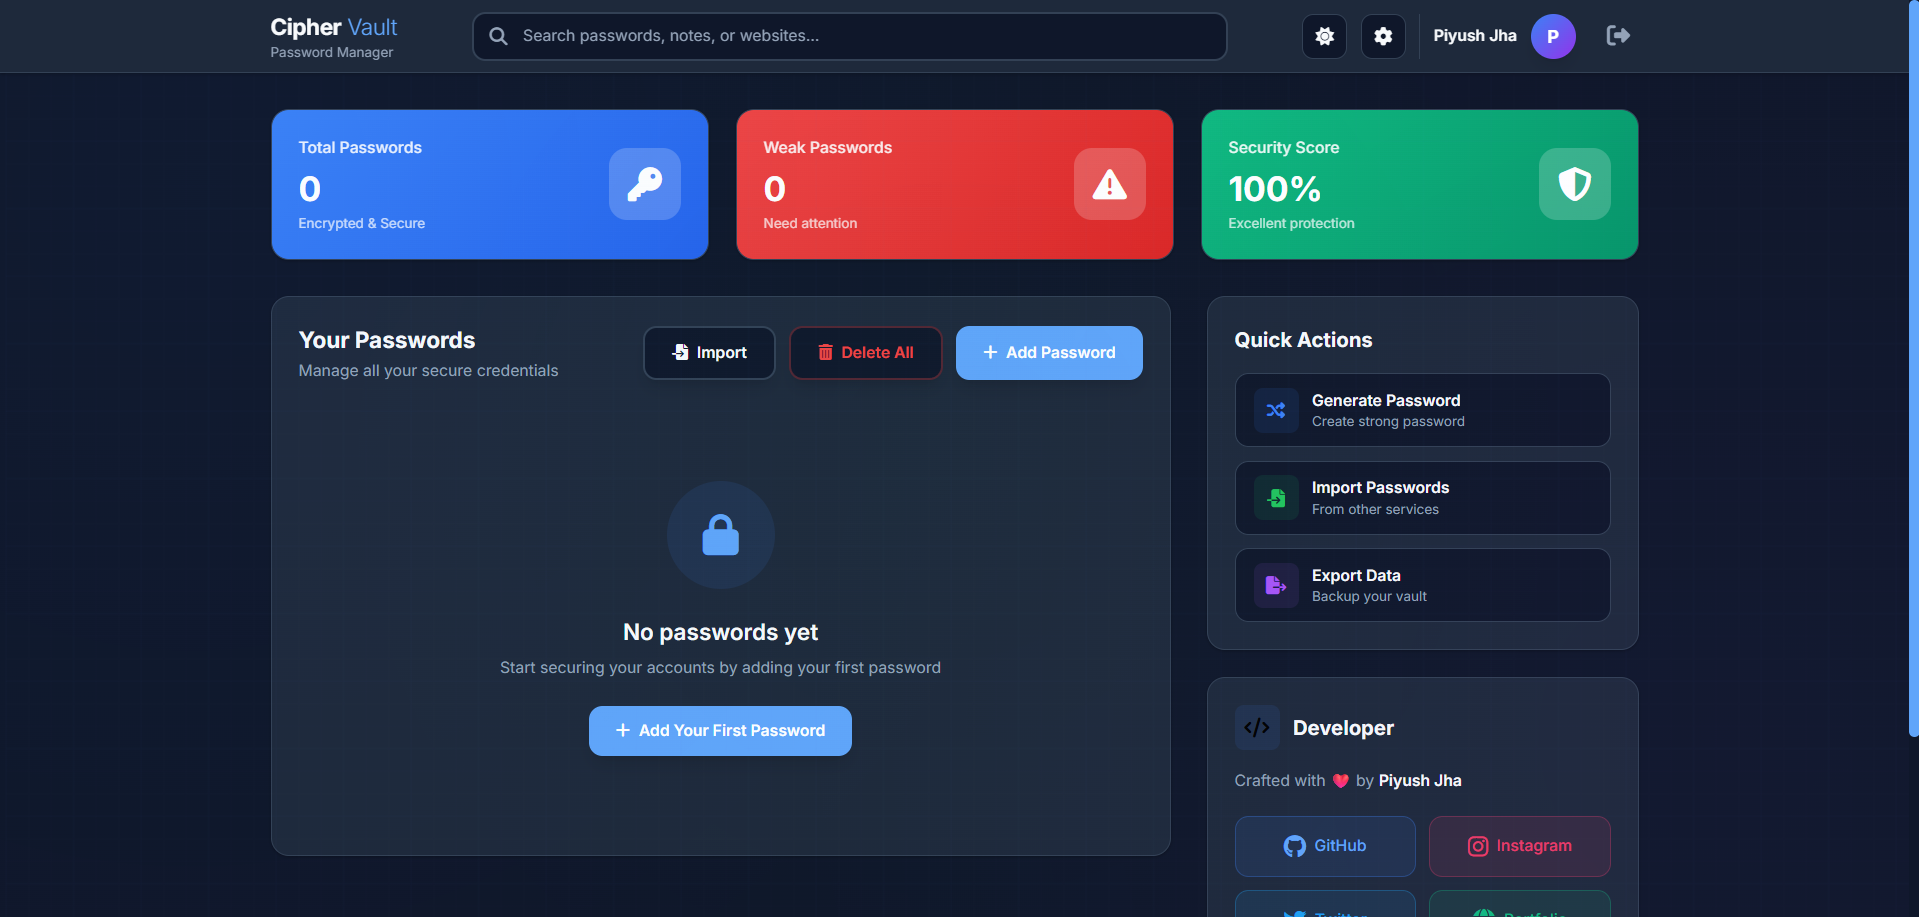
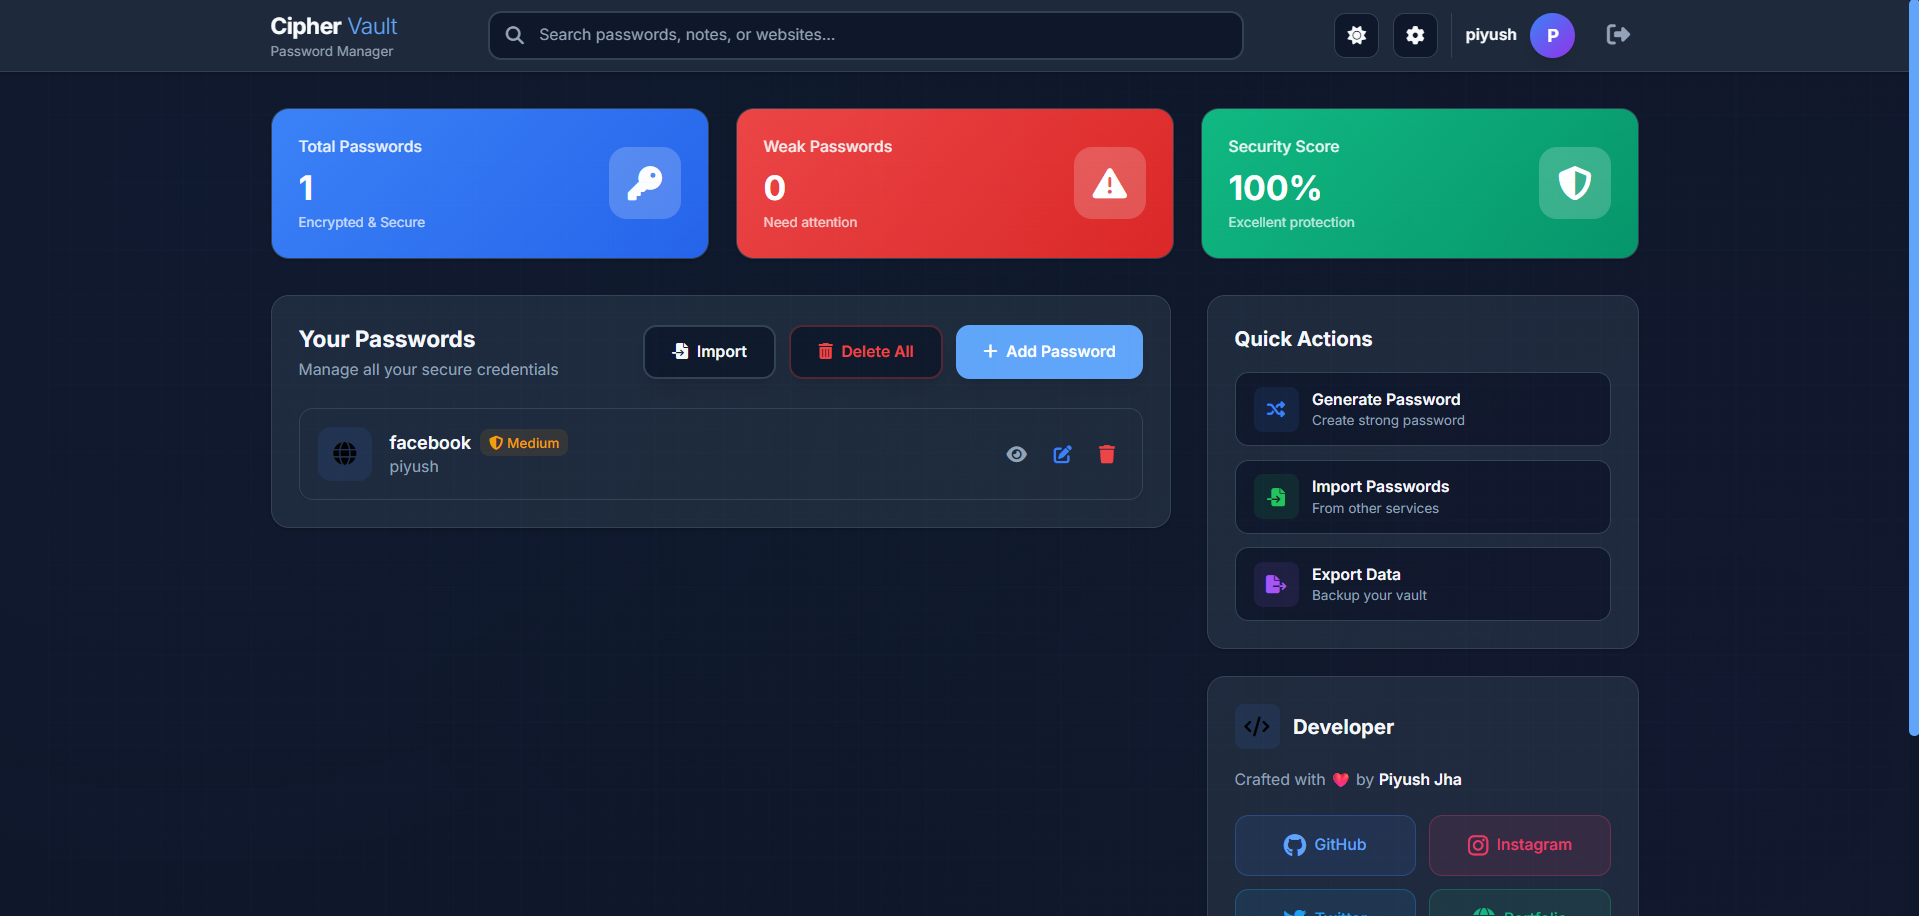
Made changes

diff --git a/src/components/Projects.jsx b/src/components/Projects.jsx
@@ -14,7 +14,7 @@ const Projects = () => {
       description: 'A hands-on cybersecurity learning platform designed for practicing penetration testing and vulnerability exploitation in a safe, controlled environment. Features real-world scenarios and challenges.',
       tags: ['Python', 'Web Security', 'CTF', 'Ethical Hacking','OWASP Top 10'],
       link: 'https://github.com/piyush-jha-16/Interactive-Vulnerability-Lab',
-      liveDemo: 'https://github.com/piyush-jha-16/Interactive-Vulnerability-Lab',
+      liveDemo: 'https://interactive-vulnerability-lab.vercel.app/',
       image: '/images/securestack-academy.png',
     },
     {
